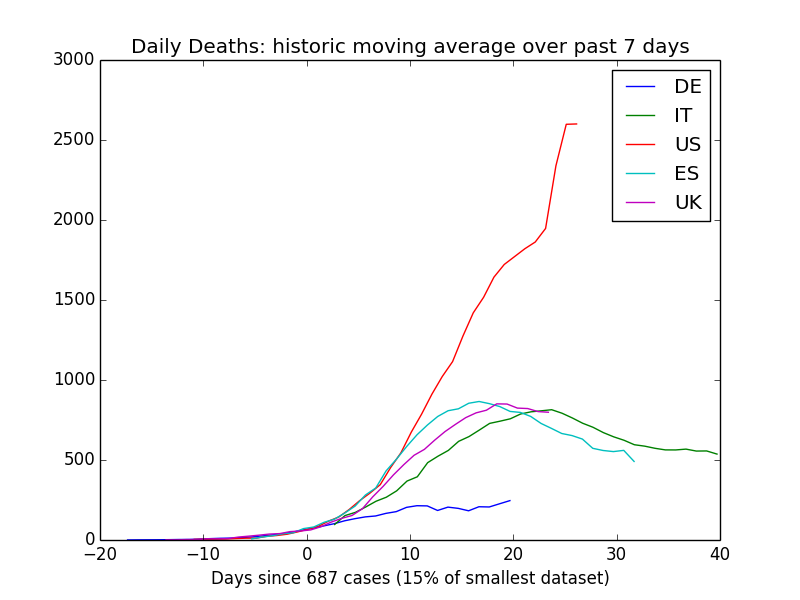
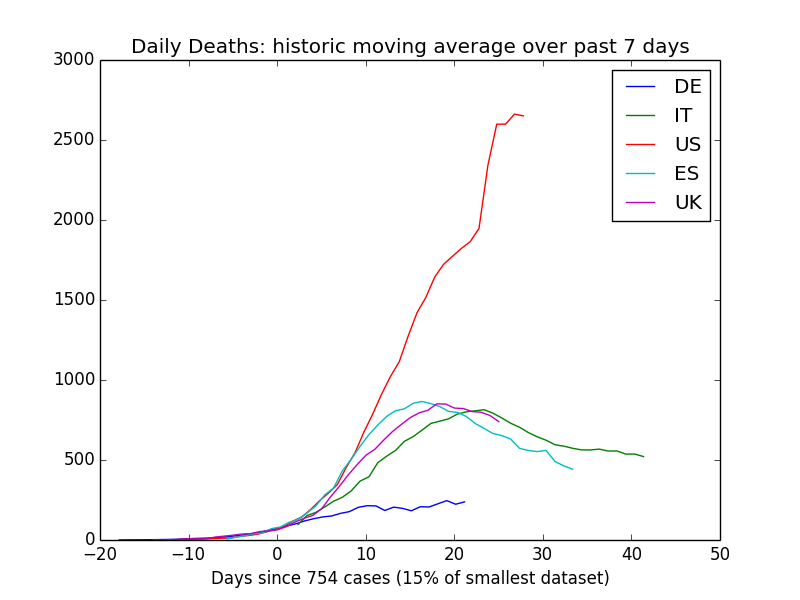
Update plots with data from April, 22nd

diff --git a/README.md b/README.md
@@ -2,7 +2,7 @@
 
 Data is taken from the [2019 Novel Coronavirus COVID-19 Data Repository by Johns Hopkins CSSE](https://github.com/CSSEGISandData/COVID-19)
 
-### Last update: 19.04.2020
+### Last update: 21.04.2020
 
 ### Cases
 
